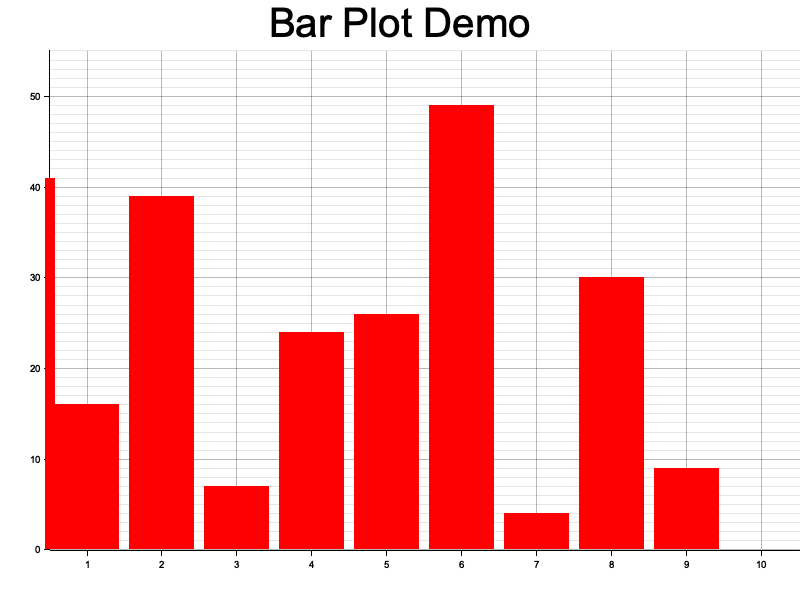
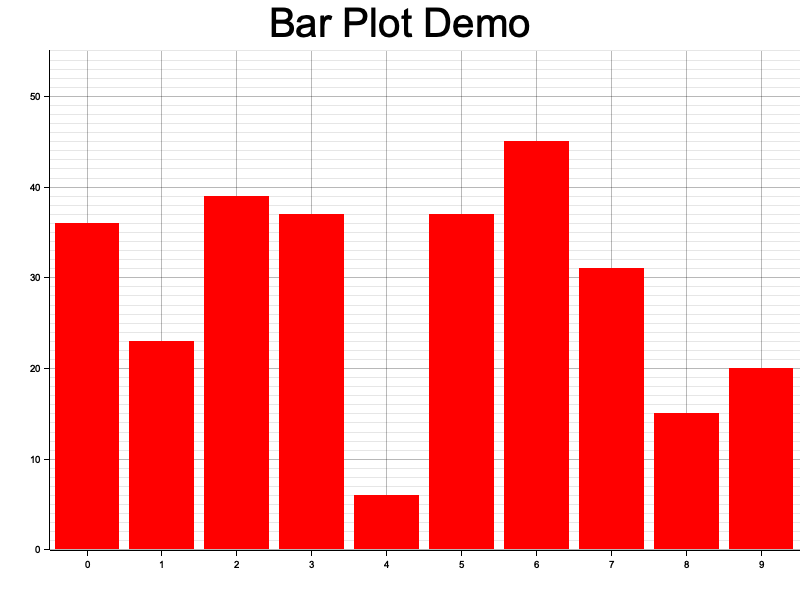
Removed README images folder

Changed region(s): [[0.0312, 0.3, 0.5312, 0.9], [0.5312, 0.15, 0.8125, 0.87], [0.8125, 0.6, 1.0, 0.96]]

diff --git a/Data_visualization/bar_plot/src/main.rs b/Data_visualization/bar_plot/src/main.rs
@@ -10,7 +10,7 @@ fn main() {
         .set_label_area_size(LabelAreaPosition::Left, 50)
         .set_label_area_size(LabelAreaPosition::Bottom, 50)
         .caption("Bar Plot Demo", ("sans-serif", 50))
-        .build_cartesian_2d((1..10).into_segmented(), 0..55)
+        .build_cartesian_2d((0..9).into_segmented(), 0..55)
         .unwrap();
 
     ctx.configure_mesh().draw().unwrap();
